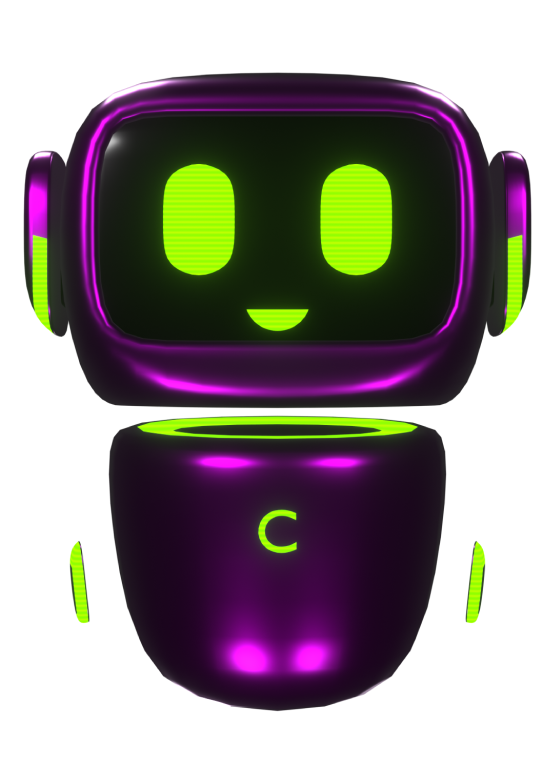
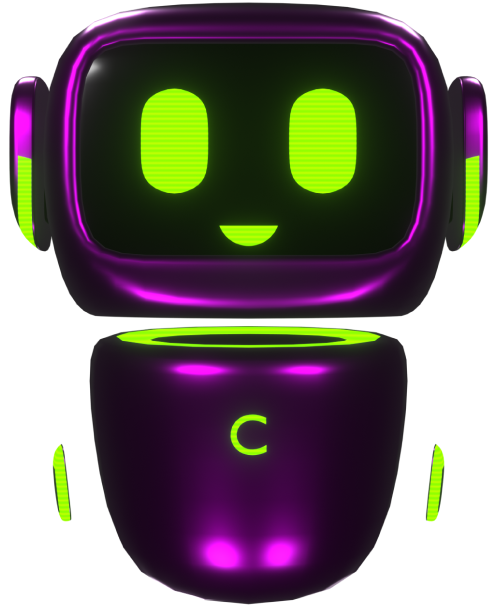
Landing Page ✅

diff --git a/chatty-web/app/page.tsx b/chatty-web/app/page.tsx
@@ -1,34 +1,39 @@
-
 import Navbar from "../components/Navbar";
 import "./globals.css";
 import Image from "next/image";
 
 
 export default async function Home() {
-
   return (
     <body className="">
-      <div className="absolute h-[100vh] w-[100vw]">
-        <img src="/bg.png" alt="" className="relative h-[100vh] w-[100vw]"/>
+      <div className="absolute">
+        <img src="/bg.png" alt="" className="relative h-[55vh] w-[100vw]"/>
       </div>
       <section className="bg-black h-[100vh] w-[100vw] grid-background">
         <Navbar isOpen={false} page={"Home"} />
-          <div className="flex flex-row justify-around">
-            <div className="flex flex-col justify-around">
+          <div className="flex flex-row justify-center">
+            <div className="flex flex-col justify-between h-[30vw]">
+              <div className="flex flex-col">
                 <div>
-                  <h1 className="text-[4vw] font-bold text-[#CCCCCC] w-[38vw] ml-[1vw]">
+                  <h1 className="text-[4.5vw] font-bold text-[#CCCCCC]/95 ml-[1vw] mt-[3vw] w-[45vw]">
                     The solution for all your web problems.
                   </h1>
                 </div>
-              <div className="flex justify-start flex-col h-[20vw]">
-                <p className="flex ml-2 items-end text-[4vw] font-bold mt-4 h-[5vw] bg-gradient-to-r from-[#5B0662] to-[#F580F1] text-transparent bg-clip-text">THE WEB HELPER</p>
+                <div className="">
+                  <h1 className="text-[2.5vw] font-semibold text-[#700079] ml-[1vw] drop-shadow-[0_1px_4px_rgba(112,0,121,1)]">
+                    First and unique web helper
+                  </h1>
+                </div>
               </div>
-              <div className="flex items-center ">
-                <button className="bg-gradient-to-r from-[#85F900] to-[#85F900]/70 p-[1vw] text-[1.3vw] text-black font-extrabold rounded-3xl mt-[2vw] ml-[1vw]">ADD TO CHROME</button>
+              <div>
+                <div className="flex flex-row">
+                  <p className="text-[1.5vw]"><span className=" text-[#85F900] ml-[1vw] drop-shadow-[0_1px_2.5px_rgba(133,249,0,1)]">Everything</span><span className="text-[#CCCCCC]"> in a simple extension</span><span className="text-[#CCCCCC]"> - </span></p>
+                  <button className="flex flex-row text text-[#CCCCCC] text-[1.4vw] drop-shadow-[0_1px_2.5px_rgba(255,255,255,1)] ml-[0.5vw] px-[0.5vw] py-[0.2vw] border border-[#F580F1] rounded-lg hover:border-white transition-colors duration-500">Add to chrome<img src="/chrome.png" className="ml-[0.5vw]" /></button>
+                </div>
               </div>
             </div>
             <div>
-              <Image src={"/chatty.png"} alt="chatty" height={500} width={500} />
+              <img src={"/chatty.png"} alt="chatty" className="h-[45vw] w-[35vw] mr-[2vw] ml-[2vw] "></img>
             </div>
           </div>
       </section>

diff --git a/chatty-web/components/Navbar.tsx b/chatty-web/components/Navbar.tsx
@@ -38,7 +38,7 @@ const Navbar = ({isOpen, page} : {isOpen : boolean; page : string}) => {
     setHoveredIndex(5);
   };
   return (
-    <main className="top-0 overflow-hidden pb-36">
+    <main className="top-0 overflow-hidden pb-[4vw]">
           <header className={`fixed flex flex-row items-center justify-around w-full mb-32 ${ scrolled ? "bg-none border-b border-b-white transition-all duration-1000 shadow-4xl" : " transition-all duration-1000 border-b-0 border-b-white/0"}`}>
             <nav className="flex flex-row items-center justify-between w-full px-8">
               <ul className="list-none flex flex-row items-center mt-2" id="nav-list">
@@ -48,13 +48,13 @@ const Navbar = ({isOpen, page} : {isOpen : boolean; page : string}) => {
                 {Array.from({ length: 4 }, (_, index) => (
                   <li
                     key={index}
-                    className={` text-white/70 text-sm cursor-pointer px-8 py-6${
+                    className={` text-white/70 text-sm cursor-pointer px-[1.5vw] py-[2vh]${
                       hoveredIndex === index ? 'text-white/70 hover:text-white' : ''
                     }`}
                     onMouseEnter={() => handleMouseEnter(index)}
                     onMouseLeave={handleMouseLeave}
                   >
-                    {index === 0 ? 'Home' : index === 1 ? 'Best Sellers' : index === 2 ? 'Services' : index === 3 ? 'Contact Us' : ""}
+                    {index === 0 ? 'Home' : index === 1 ? 'Products' : index === 2 ? 'Service' : index === 3 ? 'Contact Us' : ""}
                   </li>
                 ))}
               <li
@@ -67,11 +67,11 @@ const Navbar = ({isOpen, page} : {isOpen : boolean; page : string}) => {
                 <span
                   className="transition-all duration-200 mt-1"
                   style={{
-                    transform: `translateX(${hoveredIndex === 0 ? '5.1vw' : hoveredIndex === 1 ? '10.4vw' : hoveredIndex === 2 ? '17.4vw' : hoveredIndex === 3 ? '23.5vw' : hoveredIndex === 4 ? '29.6vw' : hoveredIndex == 5 ? '5.1vw' : ""})`,
+                    transform: `translateX(${hoveredIndex === 0 ? '5.3vw' : hoveredIndex === 1 ? '10.3vw' : hoveredIndex === 2 ? '16.2vw' : hoveredIndex === 3 ? '21.6vw' : hoveredIndex === 4 ? '27.6vw' : hoveredIndex == 5 ? '5.3vw' : ""})`,
                     transition: '0.3s ease', 
                     display: 'inline-block', 
                     position: 'absolute',
-                    width: `${hoveredIndex === 0 ? '80px' : hoveredIndex === 1 ? '110px' : hoveredIndex === 2 ? '90px' : hoveredIndex === 3 ? '100px' : hoveredIndex === 4 ? '135px' : hoveredIndex === 5 ? '0px' : ""}`,
+                    width: `${hoveredIndex === 0 ? '70px' : hoveredIndex === 1 ? '90px' : hoveredIndex === 2 ? '80px' : hoveredIndex === 3 ? '105px' : hoveredIndex === 4 ? '140px' : hoveredIndex === 5 ? '0px' : ""}`,
                   }}
               ></span>  
             )}
